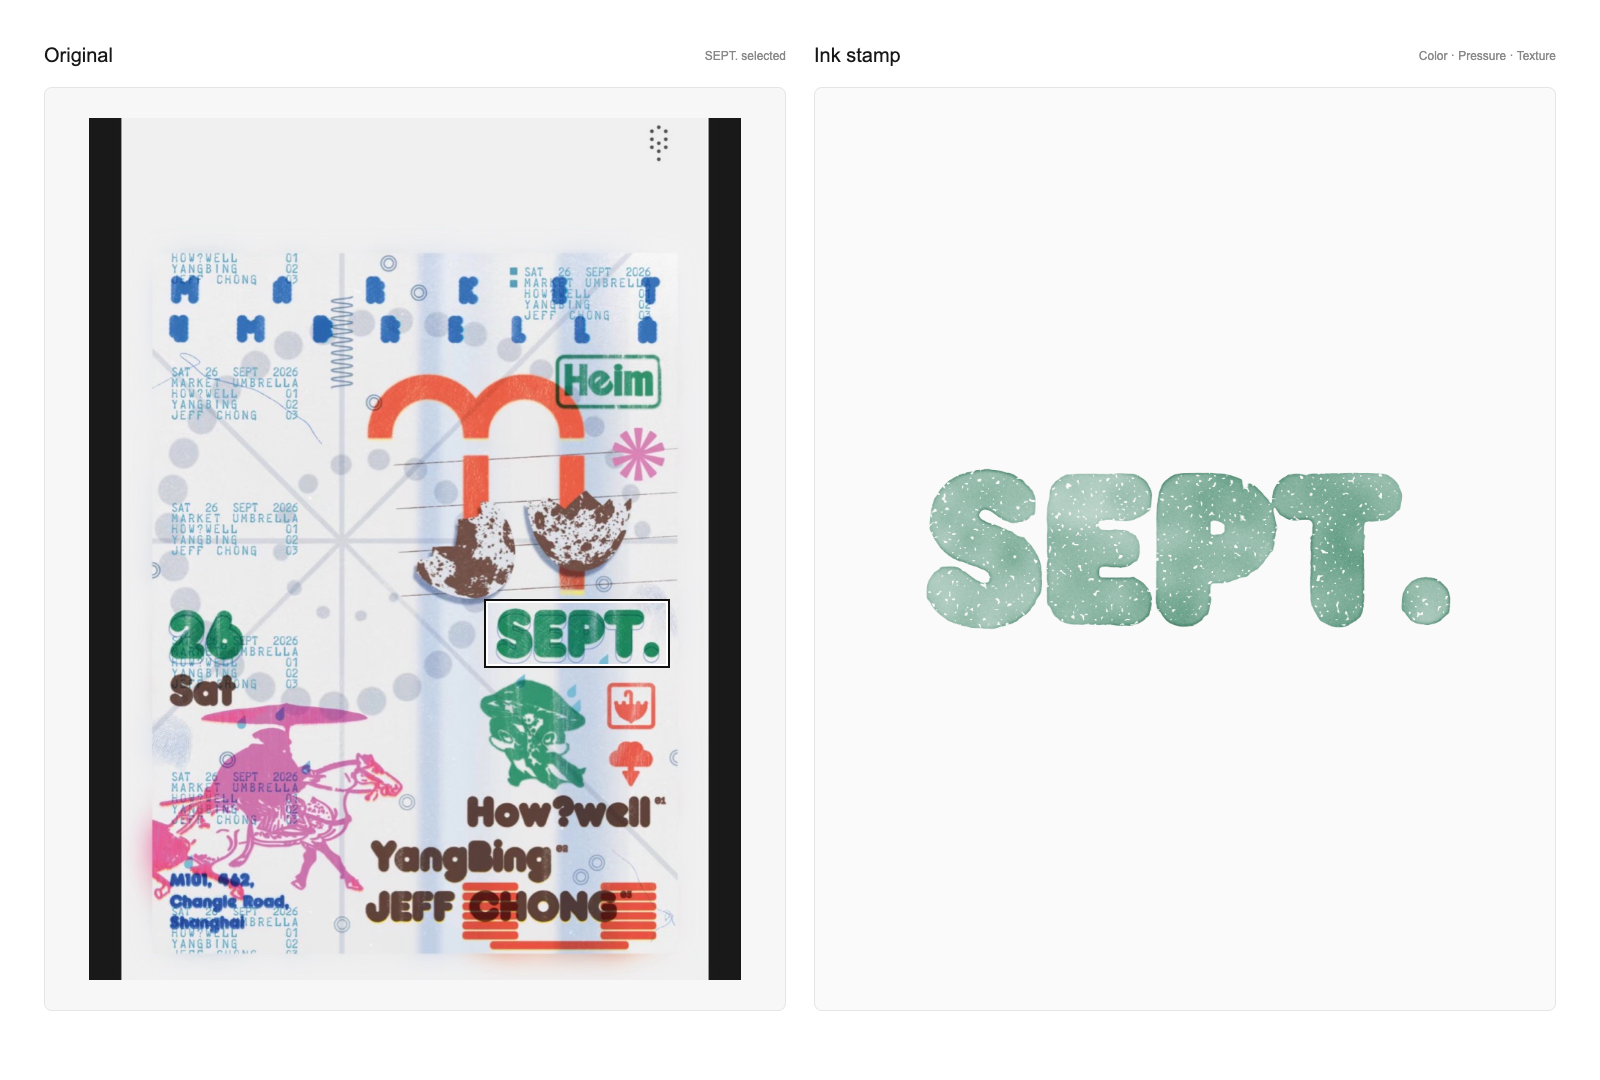
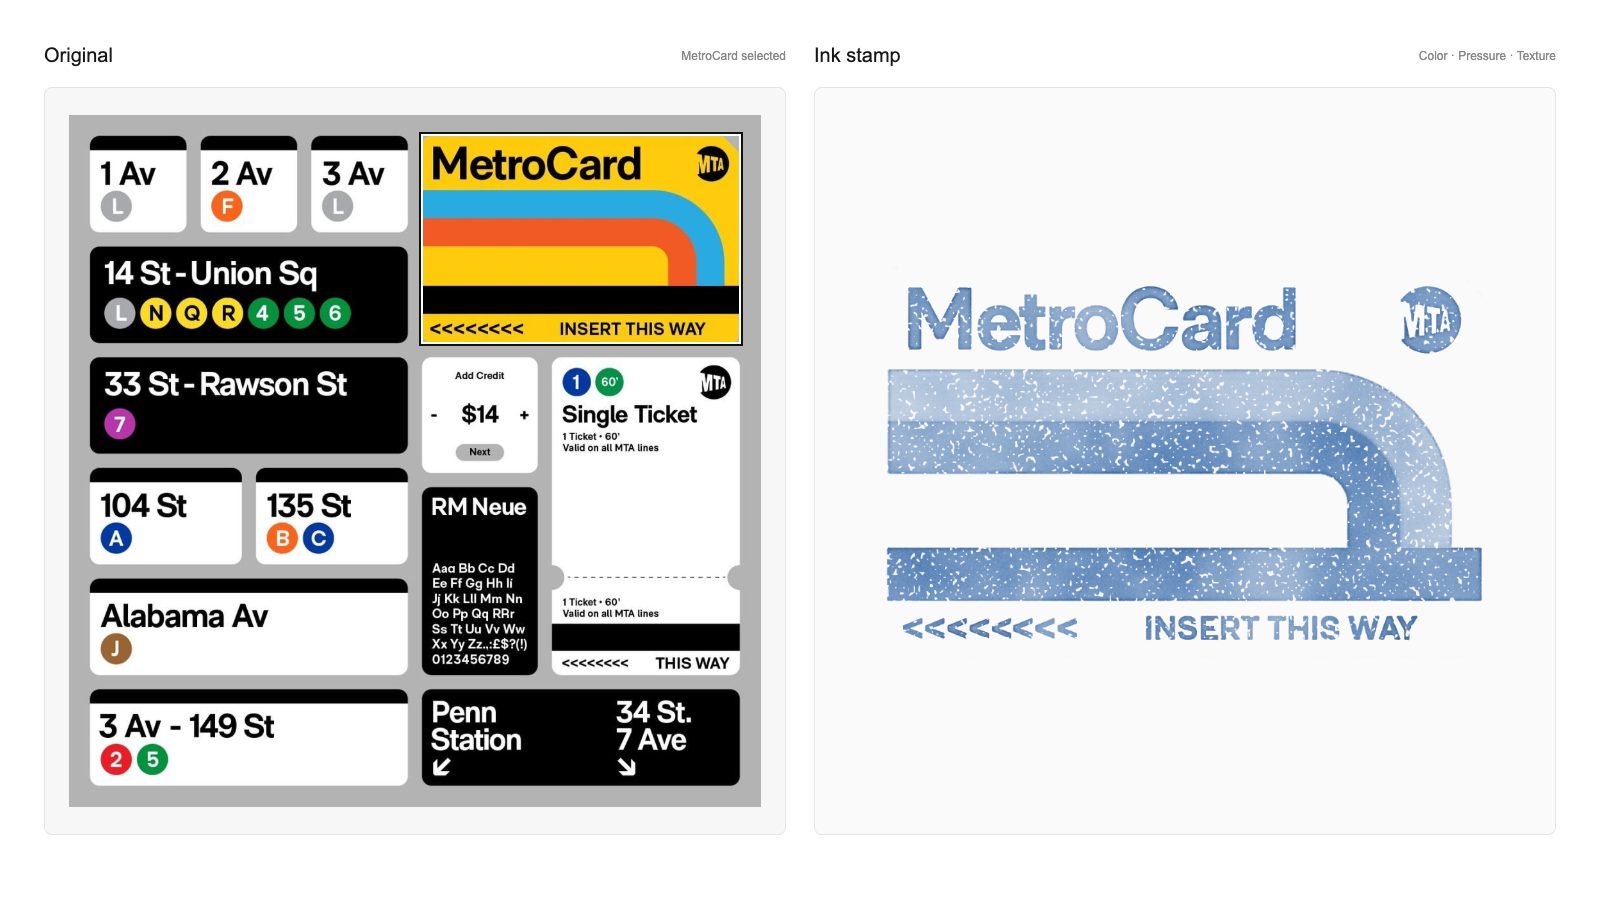
docs: prioritize skill quick start and replace example with MetroCard

diff --git a/README.md b/README.md
@@ -2,17 +2,42 @@
 
 **English** · [简体中文](README.zh-CN.md)
 
-Turn a piece of an image into an ink stamp, with uneven pressure, pooled edges, and a little wear.
+The first tool in the only-xxx series: turn your favorite images into ink stamps.
 
-**Part of the Only series.** Only is a collection of small, playful tools. Each one does one thing: take a simple idea, make it fun to play with, and let you take the result with you. This one is all about ink stamps.
+## Start with the skill
+
+**1. Install once.** Paste this into Codex:
+
+```text
+Install the Codex skill from https://github.com/SummonLav/only-ink-stamp.
+```
+
+**2. Attach an image and run it.** For the example below:
+
+```text
+Use $ink-stamp to turn the MetroCard in the top right of this image into a blue ink stamp. Keep the text readable, vary the ink density, and make parts of the edges darker.
+```
+
+To choose the region and tune the result yourself, ask `$ink-stamp` to open the studio. The skill handles dependency setup and launches the local tool; you do not need to run server commands manually. Python 3.10+ is required.
+
+<details>
+<summary>Manual skill installation</summary>
+
+```sh
+git clone https://github.com/SummonLav/only-ink-stamp.git ~/.codex/skills/ink-stamp
+```
+
+See [SKILL.md](SKILL.md) for the workflow and parameter reference.
+
+</details>
 
 ## Before → After
 
-![Before and after: the SEPT. region selected in the original poster, beside the resulting green ink stamp](docs/images/comparison.png)
+![Before and after: the MetroCard selected in the original image, beside the resulting blue ink stamp](docs/images/comparison.png)
 
-The outline on the original marks the selected area. The stamp on the right uses that area, with adjustable ink color, pressure variation, edge pooling, and worn patches.
+The outline marks the MetroCard in the top right of the original image. The blue stamp on the right comes from that selection, with adjustable ink density, darker edges, and worn patches.
 
-[Original image](docs/images/source.jpg) · [Transparent stamp PNG](docs/images/stamp.png) · [Example settings](docs/examples/sept.json)
+[Original image](docs/images/source.png) · [Transparent stamp PNG](docs/images/stamp.png) · [Example settings](docs/examples/metrocard.json)
 
 ## What you can do
 
@@ -60,33 +85,19 @@ Open the example in the studio:
 
 ```sh
 .venv/bin/python scripts/studio.py \
-  --input docs/images/source.jpg \
-  --preset docs/examples/sept.json
+  --input docs/images/source.png \
+  --preset docs/examples/metrocard.json
 ```
 
 Or render it from the command line:
 
 ```sh
-.venv/bin/python scripts/stamp.py docs/images/source.jpg \
-  --preset docs/examples/sept.json \
-  --output stamp-outputs/sept.png
+.venv/bin/python scripts/stamp.py docs/images/source.png \
+  --preset docs/examples/metrocard.json \
+  --output stamp-outputs/metrocard.png
 ```
 
-This writes `sept.png`, `sept-paper.png`, and `sept.json`. The same input, settings, output size, and random seed produce the same result.
-
-## Use as a Codex skill
-
-The repository includes a reusable skill named **`$ink-stamp`**. Clone it into your skills directory:
-
-```sh
-git clone https://github.com/SummonLav/only-ink-stamp.git ~/.codex/skills/ink-stamp
-```
-
-Then describe what you want:
-
-> Use $ink-stamp to turn the flower in this image into a dark blue stamp, with a lighter center, darker patches along the edges, and a little wear.
-
-See [SKILL.md](SKILL.md) for the full workflow and parameter reference.
+This writes `metrocard.png`, `metrocard-paper.png`, and `metrocard.json`. The same input, settings, output size, and random seed produce the same result.
 
 ## Images and exports
 

diff --git a/README.zh-CN.md b/README.zh-CN.md
@@ -4,13 +4,40 @@
 
 only-xxx 系列第一作：把你喜欢的图片变成油墨印章。
 
+## 直接用 Skill 开始
+
+**1. 安装一次。** 把下面这句话发给 Codex：
+
+```text
+安装这个仓库里的 Codex Skill：https://github.com/SummonLav/only-ink-stamp。
+```
+
+**2. 上传图片，直接调用。** 以下面的图片为例：
+
+```text
+使用 $ink-stamp，把这张图右上角的 MetroCard 做成蓝色油墨印章。保留清晰的文字，让油墨有深浅变化，部分边缘更深。
+```
+
+想自己选择区域、调节效果时，让 `$ink-stamp` 打开工坊即可。Skill 会处理依赖安装并启动本地工具，不需要手动运行服务命令。需要 Python 3.10+。
+
+<details>
+<summary>手动安装 Skill</summary>
+
+```sh
+git clone https://github.com/SummonLav/only-ink-stamp.git ~/.codex/skills/ink-stamp
+```
+
+完整的工作流程和参数说明见 [SKILL.md](SKILL.md)。
+
+</details>
+
 ## 原图 → 印章
 
-![原图与印章效果对比：左侧标出海报中的 SEPT. 选区，右侧为绿色油墨印章](docs/images/comparison.png)
+![原图与印章效果对比：左侧标出原图右上角的 MetroCard 选区，右侧为蓝色油墨印章](docs/images/comparison.png)
 
-左侧是原图，框线标出选区；右侧是从该区域提取的印章。油墨颜色、深浅起伏、局部边缘积墨和露白都可以调整。
+左侧框线标出原图右上角的 MetroCard；右侧是从该区域提取的蓝色印章。油墨深浅、局部边缘积墨和露白都可以调整。
 
-[查看原图](docs/images/source.jpg) · [下载透明印章 PNG](docs/images/stamp.png) · [示例参数](docs/examples/sept.json)
+[查看原图](docs/images/source.png) · [下载透明印章 PNG](docs/images/stamp.png) · [示例参数](docs/examples/metrocard.json)
 
 ## 可以怎么玩
 
@@ -56,33 +83,19 @@ Windows 下使用 `py -m venv .venv` 创建环境，并把后续的 `.venv/bin/p
 
 ```sh
 .venv/bin/python scripts/studio.py \
-  --input docs/images/source.jpg \
-  --preset docs/examples/sept.json
+  --input docs/images/source.png \
+  --preset docs/examples/metrocard.json
 ```
 
 或直接通过命令行生成：
 
 ```sh
-.venv/bin/python scripts/stamp.py docs/images/source.jpg \
-  --preset docs/examples/sept.json \
-  --output stamp-outputs/sept.png
+.venv/bin/python scripts/stamp.py docs/images/source.png \
+  --preset docs/examples/metrocard.json \
+  --output stamp-outputs/metrocard.png
 ```
 
-输出 `sept.png`、`sept-paper.png` 和 `sept.json`。同一张输入、同一组参数、相同尺寸和随机种子会生成相同结果。
-
-## 作为 Codex Skill 使用
-
-这个工具也附带一个可复用的 Skill，调用名为 **`$ink-stamp`**。将仓库克隆到技能目录即可：
-
-```sh
-git clone https://github.com/SummonLav/only-ink-stamp.git ~/.codex/skills/ink-stamp
-```
-
-然后可以这样描述需求：
-
-> 使用 $ink-stamp，把这张图里的花做成深蓝色印章，中心轻一点，部分边缘更深，保留少量露白。
-
-完整的运行方式和参数说明见 [SKILL.md](SKILL.md)。
+输出 `metrocard.png`、`metrocard-paper.png` 和 `metrocard.json`。同一张输入、同一组参数、相同尺寸和随机种子会生成相同结果。
 
 ## 关于图片与导出
 
